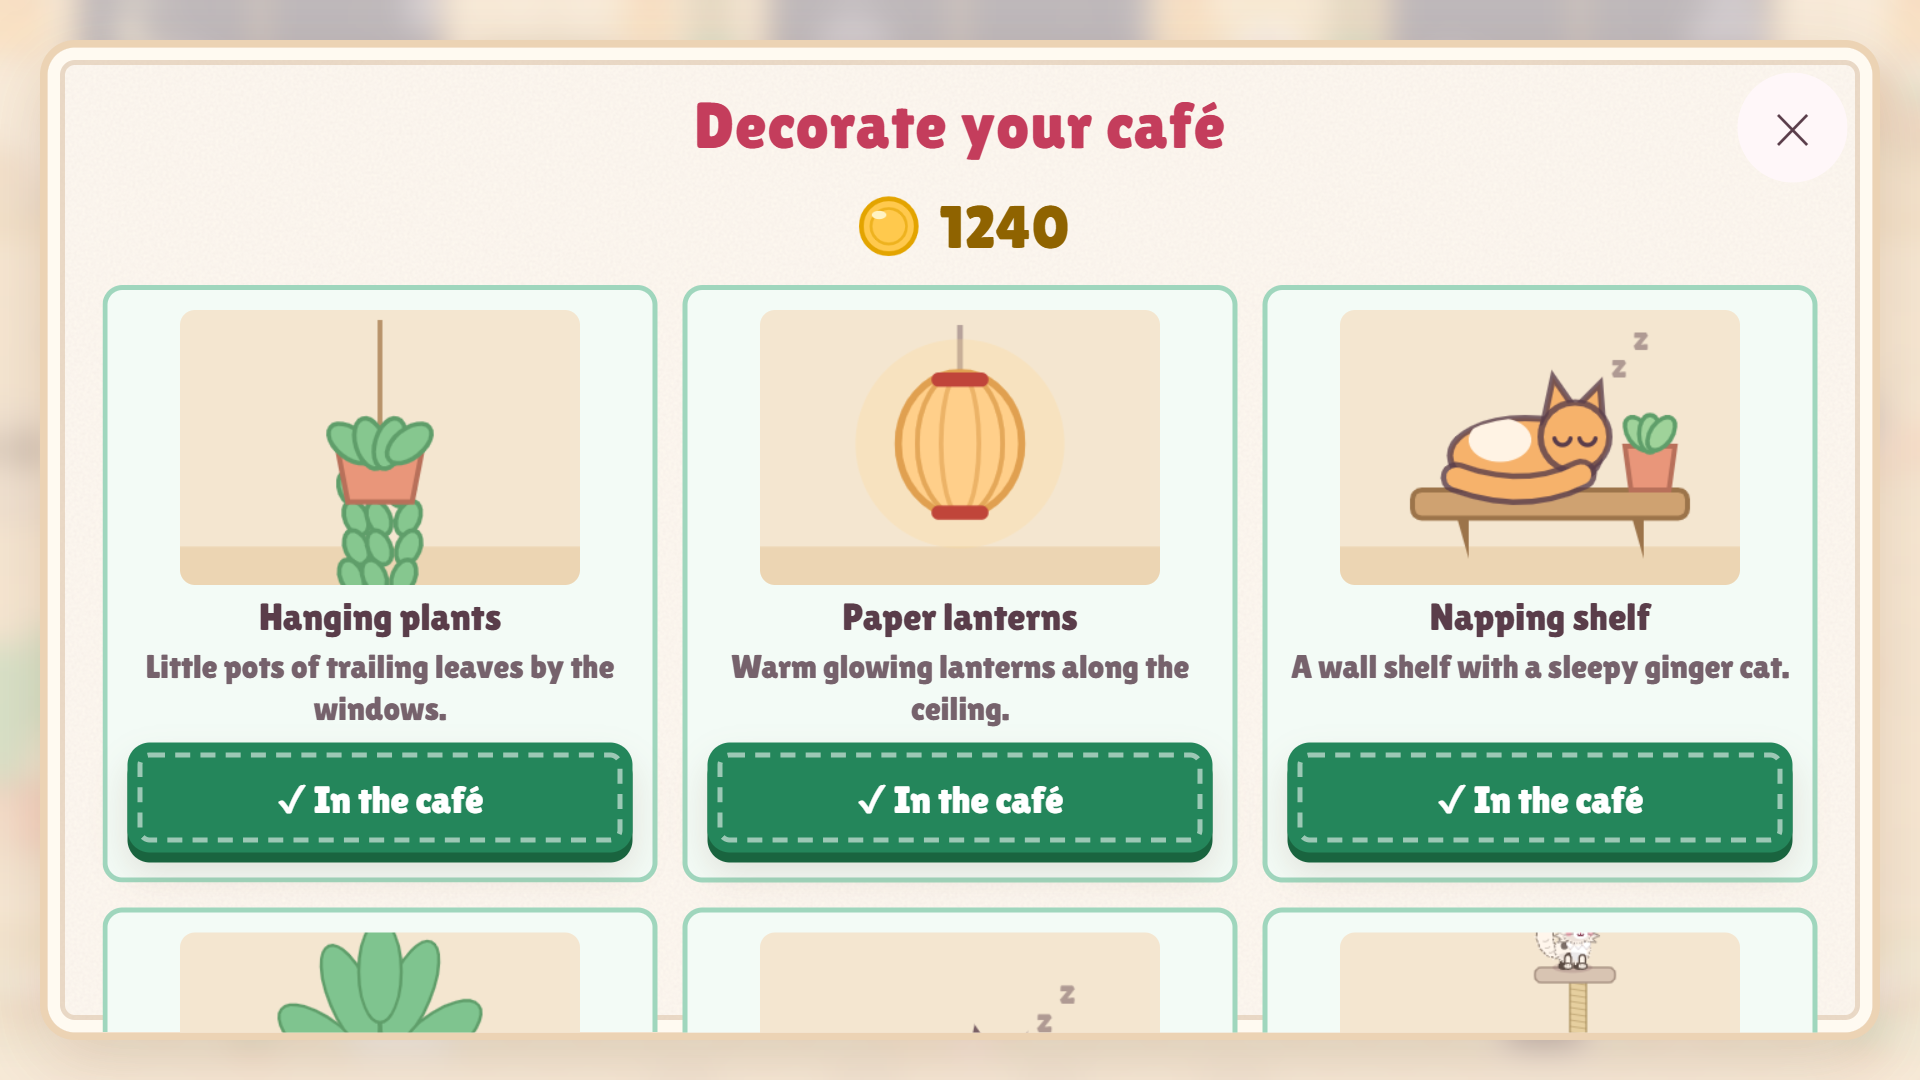
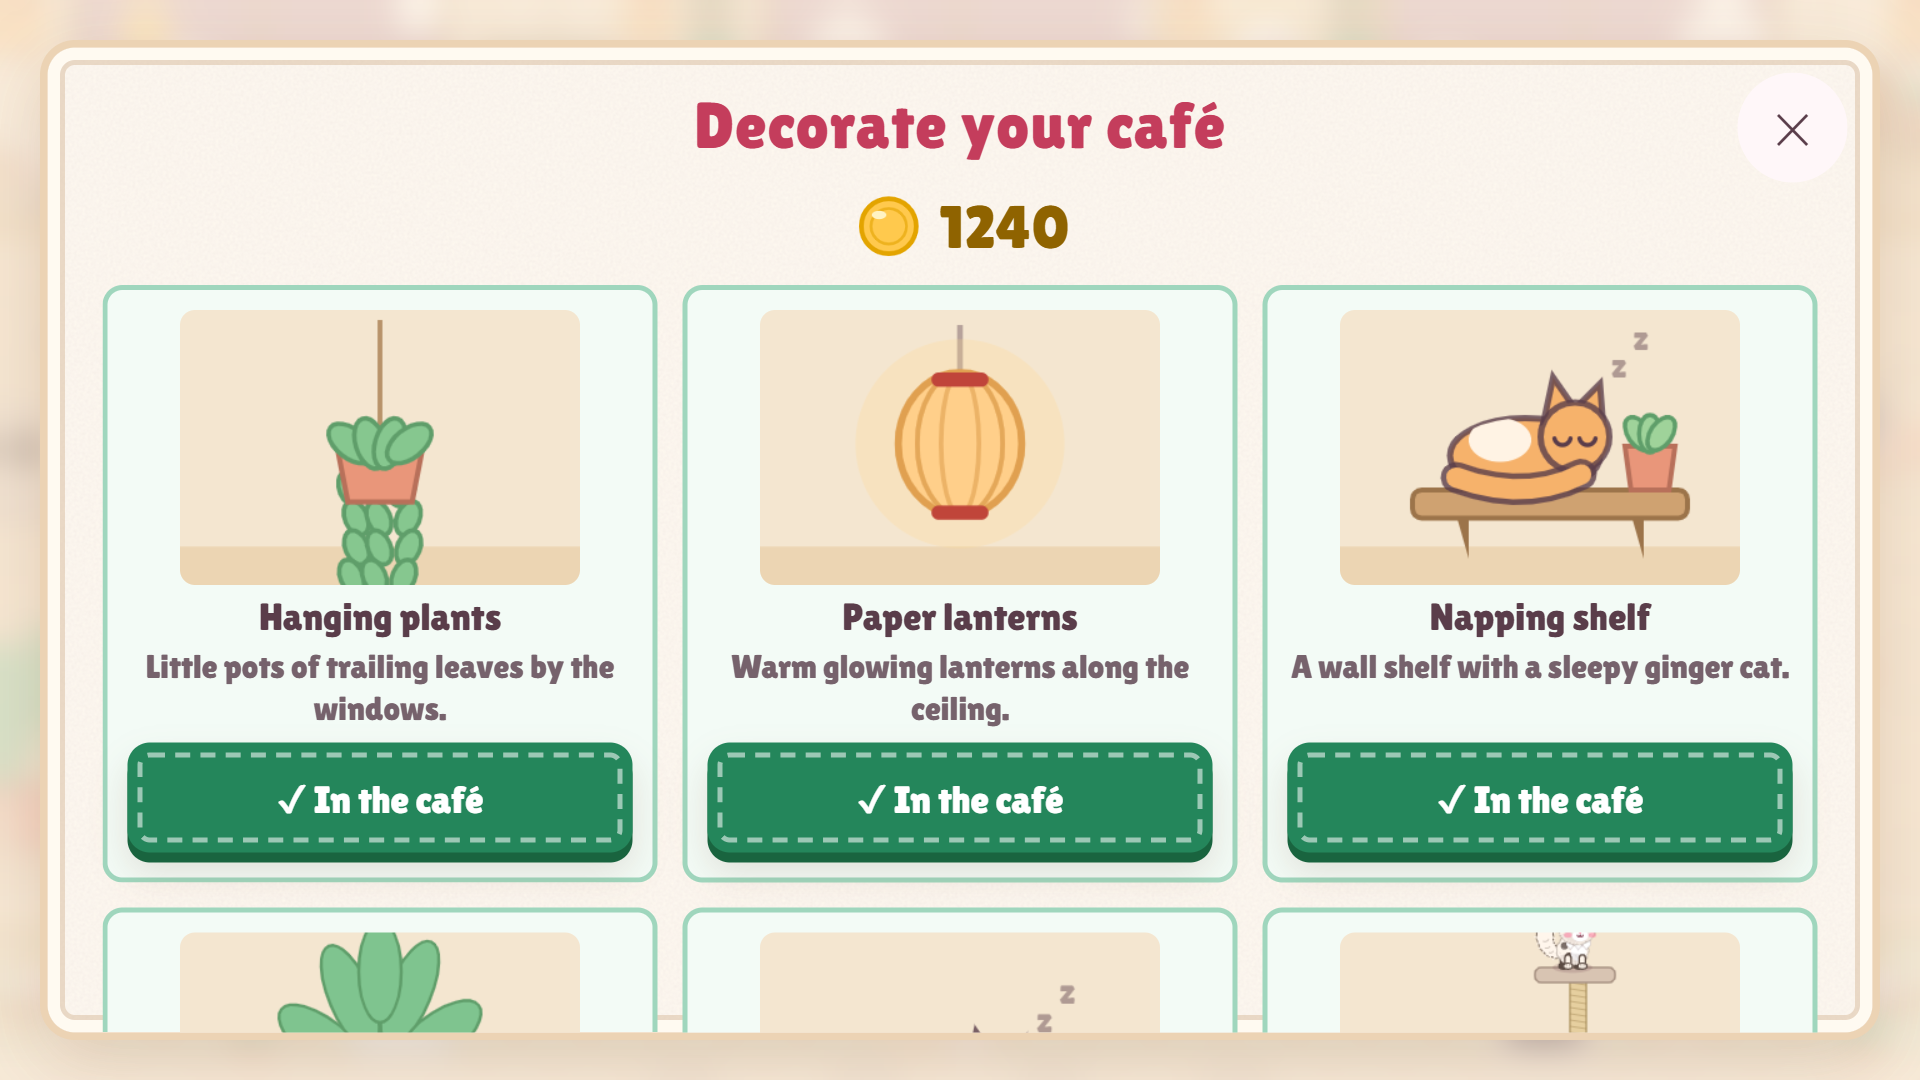
Felted chibi cats: big round heads, rounded ears, glossy eyes with highlights, rosy cheeks, soft felt halo and fibre flecks; apron pocket with paw print, white collar; new Cocoa apron

diff --git a/js/art.js b/js/art.js
@@ -150,8 +150,28 @@ function plush(ctx, cx, cy, rx, ry) {
 /** A soft, fuzzy fur outline: a faint edge line with fur strands brushed across it (fur colour, plus a few darker ones). */
 function softFurEdge(ctx, look, ol, cx, cy, rx, ry, tufts, amp, seed) {
   furPath(ctx, cx, cy, rx, ry, tufts, amp, seed);
-  ctx.save(); ctx.globalAlpha = 0.5; ctx.strokeStyle = ol; ctx.lineWidth = 1.8; ctx.stroke(); ctx.restore();
-  fuzz(ctx, cx, cy, rx, ry, look.fur, Math.round(tufts * 2.6), 5, seed);
+  ctx.save(); ctx.globalAlpha = 0.3; ctx.strokeStyle = ol; ctx.lineWidth = 1.8; ctx.stroke(); ctx.restore(); // felt: barely-there edge
+  ctx.save(); ctx.globalAlpha = 0.75; fuzz(ctx, cx, cy, rx, ry, look.fur, Math.round(tufts * 3), 2.8, seed, 1.3); ctx.restore(); // a soft felt halo, not bristles
+}
+
+/** A rounded triangle (soft felt ears): corners at a and c, a rounder tip at b. */
+function roundTri(ctx, a, b, c, tip = 4, base = 2.5) {
+  ctx.beginPath(); ctx.moveTo((a[0] + c[0]) / 2, (a[1] + c[1]) / 2);
+  ctx.arcTo(a[0], a[1], b[0], b[1], base); ctx.arcTo(b[0], b[1], c[0], c[1], tip); ctx.arcTo(c[0], c[1], a[0], a[1], base);
+  ctx.closePath();
+}
+
+/** Needle-felt look inside the current clip: a scatter of tiny light and dark fibre flecks (deterministic, two strokes). */
+function felt(ctx, cx, cy, rx, ry, seed) {
+  for (const [color, k] of [['rgba(255,255,255,0.28)', 0], ['rgba(70,35,50,0.09)', 1]]) {
+    ctx.beginPath();
+    for (let i = 0; i < 16; i++) {
+      const a = seed * 3 + i * 2.39996 + k, r = Math.sqrt((i + 0.5) / 16) * 0.92;
+      const x = cx + Math.cos(a) * rx * r, y = cy + Math.sin(a) * ry * r, d = a * 1.7;
+      ctx.moveTo(x, y); ctx.lineTo(x + Math.cos(d) * 2.4, y + Math.sin(d) * 2.4);
+    }
+    ctx.strokeStyle = color; ctx.lineWidth = 1.1; ctx.stroke();
+  }
 }
 
 /** A fluffy plume tail along a curve (a, control c, tip b): overlapping puffs that get fuller toward the tip. */
@@ -170,14 +190,8 @@ function fluffyTail(ctx, look, ol, a, c, b) {
   ctx.globalAlpha = 1;
 }
 
-/** A little tuft of hair standing up on top of the head (hats are drawn over it). */
-function headTuft(ctx, look, ol, hx, hy) {
-  ctx.beginPath(); ctx.moveTo(hx - 3, hy - 15);
-  ctx.quadraticCurveTo(hx - 3, hy - 22, hx + 1, hy - 25); ctx.quadraticCurveTo(hx + 1, hy - 20, hx + 4, hy - 19);
-  ctx.quadraticCurveTo(hx + 6, hy - 23, hx + 9, hy - 22); ctx.quadraticCurveTo(hx + 7, hy - 18, hx + 8, hy - 15);
-  ctx.fillStyle = look.fur; ctx.fill();
-  ctx.save(); ctx.globalAlpha = 0.55; ctx.strokeStyle = ol; ctx.lineWidth = 1.5; ctx.stroke(); ctx.restore();
-}
+/** The round chibi head (felt style): a bit wider than tall. */
+const HEAD_RX = 20.5, HEAD_RY = 18.5;
 
 /** Cats on the café floor are drawn this much bigger than in menus and portraits (set around the café render). */
 let catScale = 1;
@@ -216,12 +230,15 @@ export function drawCat(ctx, x, y, look, o = {}) {
   // far legs, body, near legs
   leg(ctx, -10 - swing, look.dark, ol, look);
   leg(ctx, 7 + swing, look.dark, ol, look);
-  furPath(ctx, 0, -20, 19, 15, 11, 0.09, 0.3); ctx.fillStyle = look.fur; ctx.fill();
-  ctx.save(); ctx.clip(); bodyPattern(ctx, look); plush(ctx, 0, -20, 19, 15); ctx.restore();
-  softFurEdge(ctx, look, ol, 0, -20, 19, 15, 11, 0.09, 0.3);
-  if (look.accessory === 'chef' || look.accessory === 'waiter') { // apron
-    rrect(ctx, -1, -31, 17, 22, 5); fillStroke(ctx, look.acc, '#e56b8c', 1.6);
-    rrect(ctx, 3, -20, 9, 6, 2); fillStroke(ctx, '#ffd0de', null);
+  furPath(ctx, 0, -19, 17, 16, 11, 0.09, 0.3); ctx.fillStyle = look.fur; ctx.fill();
+  ctx.save(); ctx.clip(); bodyPattern(ctx, look); plush(ctx, 0, -19, 17, 16); felt(ctx, 0, -19, 17, 16, look.seed); ctx.restore();
+  softFurEdge(ctx, look, ol, 0, -19, 17, 16, 11, 0.09, 0.3);
+  if (look.accessory === 'chef' || look.accessory === 'waiter') { // felt apron with a pocket and a little paw print
+    rrect(ctx, -5, -32, 21, 25, 6); fillStroke(ctx, look.acc, 'rgba(60,30,45,0.3)', 1.4);
+    rrect(ctx, 0, -21, 11, 7, 2.5); fillStroke(ctx, 'rgba(255,255,255,0.16)', 'rgba(60,30,45,0.25)', 1);
+    ctx.fillStyle = '#ffd68a';
+    circle(ctx, 9.5, -11, 1.9); ctx.fill();
+    for (const [dx, dy] of [[-2.3, -2.4], [0, -3.3], [2.3, -2.4]]) { circle(ctx, 9.5 + dx, -11 + dy, 0.85); ctx.fill(); }
   }
   if (look.accessory === 'ghost') { // tactical vest with pouches
     rrect(ctx, -3, -32, 20, 24, 5); fillStroke(ctx, look.acc, '#1f211c', 1.6);
@@ -241,45 +258,37 @@ export function drawCat(ctx, x, y, look, o = {}) {
   // head
   const hx = 5, hy = -44 - yawn * 3 + (eat ? 3 + Math.abs(Math.sin(t * 14)) * 3 : talk ? Math.abs(Math.sin(t * 7)) * 2 : 0);
   const droop = sad ? 6 : 0;
-  const ears = [
-    [[hx - 15, hy - 6], [hx - 13 - droop, hy - 26 + droop * 1.5], [hx - 2, hy - 15]],
-    [[hx + 5, hy - 15], [hx + 16 + droop, hy - 26 + droop * 1.5], [hx + 18, hy - 5]],
+  const ears = [ // soft rounded felt ears with pink insides
+    [[hx - 18, hy - 4], [hx - 15 - droop, hy - 28 + droop * 1.5], [hx - 3, hy - 17]],
+    [[hx + 7, hy - 17], [hx + 19 + droop, hy - 28 + droop * 1.5], [hx + 22, hy - 3]],
   ];
   for (const [i, [a, b, c]] of ears.entries()) {
-    tri(ctx, a, b, c); fillStroke(ctx, i === 1 && look.ear ? look.ear : look.fur, ol, 2.2);
+    roundTri(ctx, a, b, c); ctx.fillStyle = i === 1 && look.ear ? look.ear : look.fur; ctx.fill();
+    ctx.save(); ctx.globalAlpha = 0.3; ctx.strokeStyle = ol; ctx.lineWidth = 1.8; ctx.stroke(); ctx.restore();
     const cx = (a[0] + b[0] + c[0]) / 3, cy = (a[1] + b[1] + c[1]) / 3;
-    const k = p => [cx + (p[0] - cx) * 0.5, cy + (p[1] - cy) * 0.5];
-    tri(ctx, k(a), k(b), k(c)); fillStroke(ctx, '#ffb3c6', null);
-    ctx.strokeStyle = look.light; ctx.lineWidth = 1.5; // wisps of fluff inside the ear
-    const base = [(a[0] + c[0]) / 2, (a[1] + c[1]) / 2];
-    for (const f of [0.35, 0.55]) { ctx.beginPath(); ctx.moveTo(...base); ctx.quadraticCurveTo(base[0] + (b[0] - base[0]) * f * 0.5 + 2, base[1] + (b[1] - base[1]) * f * 0.5, base[0] + (b[0] - base[0]) * f, base[1] + (b[1] - base[1]) * f); ctx.stroke(); }
+    const k = p => [cx + (p[0] - cx) * 0.55, cy + (p[1] - cy) * 0.55 + 1];
+    roundTri(ctx, k(a), k(b), k(c), 3, 1.5); ctx.fillStyle = '#ffb3c6'; ctx.fill();
   }
-  for (const d of [-1, 1]) { // big fluffy cheek tufts (the head covers their inner half)
-    ctx.beginPath(); ctx.moveTo(hx + d * 12, hy - 1); ctx.lineTo(hx + d * 25, hy + 1); ctx.lineTo(hx + d * 18, hy + 5);
-    ctx.lineTo(hx + d * 25, hy + 9); ctx.lineTo(hx + d * 17, hy + 12); ctx.lineTo(hx + d * 21, hy + 16); ctx.lineTo(hx + d * 9, hy + 15); ctx.closePath();
-    ctx.fillStyle = look.fur; ctx.fill();
-    ctx.save(); ctx.globalAlpha = 0.5; ctx.strokeStyle = ol; ctx.lineWidth = 1.6; ctx.stroke(); ctx.restore();
-  }
-  furPath(ctx, hx, hy, 18, 17, 13, 0.05, 1.1); ctx.fillStyle = look.fur; ctx.fill();
-  ctx.save(); ctx.clip(); headPattern(ctx, look, hx, hy); plush(ctx, hx, hy, 18, 17); ctx.restore();
-  softFurEdge(ctx, look, ol, hx, hy, 18, 17, 13, 0.05, 1.1);
-  headTuft(ctx, look, ol, hx, hy);
-  ellipse(ctx, hx + 4, hy + 7, 8, 5.5); fillStroke(ctx, look.light, null);
+  furPath(ctx, hx, hy, HEAD_RX, HEAD_RY, 14, 0.04, 1.1); ctx.fillStyle = look.fur; ctx.fill();
+  ctx.save(); ctx.clip(); headPattern(ctx, look, hx, hy); plush(ctx, hx, hy, HEAD_RX, HEAD_RY); felt(ctx, hx, hy, HEAD_RX, HEAD_RY, look.seed + 2); ctx.restore();
+  softFurEdge(ctx, look, ol, hx, hy, HEAD_RX, HEAD_RY, 14, 0.04, 1.1);
+  ellipse(ctx, hx + 3.5, hy + 8.5, 9, 6.5); fillStroke(ctx, look.light, null); // soft muzzle
 
   // eyes
   const blink = (t + look.seed) % 3.6 < 0.13;
   ctx.strokeStyle = '#2b2230'; ctx.lineWidth = 2.2;
-  for (const ex of [hx - 3, hx + 10]) {
-    const ey = hy - 1;
+  for (const ex of [hx - 4, hx + 11]) { // big, wide-set chibi eyes
+    const ey = hy + 1;
     if (yawn > 0.3) { // squeezed shut: > <
       const d = ex < hx ? 1 : -1;
       ctx.beginPath(); ctx.moveTo(ex - d * 3, ey - 2.5); ctx.lineTo(ex + d * 2, ey); ctx.lineTo(ex - d * 3, ey + 2.5); ctx.stroke();
     } else if (happy) { ctx.beginPath(); ctx.arc(ex, ey + 2, 3.4, Math.PI * 1.15, Math.PI * 1.85); ctx.stroke(); }
     else if (blink) { ctx.beginPath(); ctx.moveTo(ex - 3, ey); ctx.lineTo(ex + 3, ey); ctx.stroke(); }
     else {
-      ellipse(ctx, ex, ey, 3.6, 4.6); fillStroke(ctx, look.eye, null);
-      ellipse(ctx, ex + 0.4, ey + 0.6, 2.3, 3.3); fillStroke(ctx, '#2b2230', null);
-      circle(ctx, ex - 1, ey - 1.6, 1.3); fillStroke(ctx, '#fff', null);
+      ellipse(ctx, ex, ey, 4.4, 5.2); fillStroke(ctx, '#2a1c22', null);                  // glossy dark eye
+      ellipse(ctx, ex, ey + 1.7, 3.1, 2.6); ctx.save(); ctx.globalAlpha = 0.55; ctx.fillStyle = look.eye; ctx.fill(); ctx.restore(); // its colour, as a soft glint
+      circle(ctx, ex - 1.5, ey - 2, 1.8); fillStroke(ctx, '#fff', null);                   // big highlight
+      circle(ctx, ex + 1.7, ey + 1.9, 0.8); fillStroke(ctx, '#fff', null);                 // little highlight
     }
   }
   if (sad) {
@@ -291,7 +300,7 @@ export function drawCat(ctx, x, y, look, o = {}) {
   }
 
   // nose, mouth, cheeks, whiskers
-  tri(ctx, [hx + 1.5, hy + 3], [hx + 6.5, hy + 3], [hx + 4, hy + 6]); fillStroke(ctx, '#ff7a9a', null);
+  tri(ctx, [hx + 1.8, hy + 5], [hx + 5.2, hy + 5], [hx + 3.5, hy + 7]); fillStroke(ctx, '#ff8fab', null); // tiny pink nose
   ctx.strokeStyle = '#7a2e45'; ctx.lineWidth = 1.4;
   if (yawn > 0.05) { // big yawn: open mouth, tongue, two tiny fangs
     const my = hy + 10 + yawn, rx = 2.5 + yawn * 3.5, ry = 2 + yawn * 4.5;
@@ -301,19 +310,12 @@ export function drawCat(ctx, x, y, look, o = {}) {
   } else if ((eat || talk) && Math.sin(t * (talk ? 18 : 14)) > 0) { ellipse(ctx, hx + 4, hy + 9.5, 2.6, 2.2); fillStroke(ctx, '#7a2e45', null); }
   else if (sad) { ctx.beginPath(); ctx.arc(hx + 4, hy + 11, 2.6, Math.PI * 1.15, Math.PI * 1.85); ctx.stroke(); }
   else {
-    ctx.beginPath(); ctx.arc(hx + 2.5, hy + 7, 1.6, 0, Math.PI); ctx.stroke();
-    ctx.beginPath(); ctx.arc(hx + 5.5, hy + 7, 1.6, 0, Math.PI); ctx.stroke();
+    ctx.beginPath(); ctx.arc(hx + 2, hy + 8.2, 1.5, 0, Math.PI); ctx.stroke();
+    ctx.beginPath(); ctx.arc(hx + 5, hy + 8.2, 1.5, 0, Math.PI); ctx.stroke();
   }
-  ctx.fillStyle = 'rgba(255,120,150,0.4)';
-  circle(ctx, hx - 9, hy + 6, 3.2); ctx.fill();
-  circle(ctx, hx + 15, hy + 6, 3); ctx.fill();
-  ctx.strokeStyle = 'rgba(90,61,74,0.45)'; ctx.lineWidth = 1;
-  ctx.beginPath();
-  ctx.moveTo(hx + 12, hy + 5); ctx.lineTo(hx + 23, hy + 3);
-  ctx.moveTo(hx + 12, hy + 7); ctx.lineTo(hx + 23, hy + 8);
-  ctx.moveTo(hx - 4, hy + 5); ctx.lineTo(hx - 15, hy + 3);
-  ctx.moveTo(hx - 4, hy + 7); ctx.lineTo(hx - 15, hy + 8);
-  ctx.stroke();
+  ctx.fillStyle = 'rgba(255,128,160,0.55)'; // rosy felt cheeks
+  ellipse(ctx, hx - 10, hy + 8, 4.4, 2.8); ctx.fill();
+  ellipse(ctx, hx + 17, hy + 8, 4.2, 2.7); ctx.fill();
 
   accessory(ctx, look, hx, hy, blink);
   ctx.restore();
@@ -327,7 +329,7 @@ function drawCatBack(ctx, look, { t, state, sad }) {
 
   // sitting body with the pattern across its back, hind paws peeking out
   furPath(ctx, 0, -18, 18, 17, 12, 0.08, 0.7); ctx.fillStyle = look.fur; ctx.fill();
-  ctx.save(); ctx.clip(); backPattern(ctx, look); plush(ctx, 0, -18, 18, 17); ctx.restore();
+  ctx.save(); ctx.clip(); backPattern(ctx, look); plush(ctx, 0, -18, 18, 17); felt(ctx, 0, -18, 18, 17, look.seed); ctx.restore();
   softFurEdge(ctx, look, ol, 0, -18, 18, 17, 12, 0.08, 0.7);
   for (const px of [-10, 10]) { ellipse(ctx, px, -2, 6.5, 3.5); fillStroke(ctx, white ? '#fff' : look.fur, ol, 1.6); }
 
@@ -340,19 +342,15 @@ function drawCatBack(ctx, look, { t, state, sad }) {
   const hy = -44 + (eat ? 2 + Math.abs(Math.sin(t * 10)) * 3 : 0);
   const droop = sad ? 6 : 0;
   for (const [i, [a, b, c]] of [
-    [[hx - 16, hy - 5], [hx - 12 - droop, hy - 25 + droop * 1.5], [hx - 2, hy - 14]],
-    [[hx + 2, hy - 14], [hx + 12 + droop, hy - 25 + droop * 1.5], [hx + 16, hy - 5]],
-  ].entries()) { tri(ctx, a, b, c); fillStroke(ctx, i === 1 && look.ear ? look.ear : look.fur, ol, 2.2); }
-  furPath(ctx, hx, hy, 18, 17, 13, 0.05, 1.1); ctx.fillStyle = look.fur; ctx.fill();
-  ctx.save(); ctx.clip(); backHeadPattern(ctx, look, hx, hy); plush(ctx, hx, hy, 18, 17); ctx.restore();
-  softFurEdge(ctx, look, ol, hx, hy, 18, 17, 13, 0.05, 1.1);
-  headTuft(ctx, look, ol, hx - 3, hy);
-  // whisker tips poking out either side of the head
-  ctx.strokeStyle = 'rgba(90,61,74,0.45)'; ctx.lineWidth = 1;
-  ctx.beginPath();
-  ctx.moveTo(hx - 17, hy + 6); ctx.lineTo(hx - 23, hy + 4);
-  ctx.moveTo(hx + 17, hy + 6); ctx.lineTo(hx + 23, hy + 4);
-  ctx.stroke();
+    [[hx - 19, hy - 4], [hx - 14 - droop, hy - 28 + droop * 1.5], [hx - 3, hy - 17]],
+    [[hx + 3, hy - 17], [hx + 14 + droop, hy - 28 + droop * 1.5], [hx + 19, hy - 4]],
+  ].entries()) {
+    roundTri(ctx, a, b, c); ctx.fillStyle = i === 1 && look.ear ? look.ear : look.fur; ctx.fill();
+    ctx.save(); ctx.globalAlpha = 0.3; ctx.strokeStyle = ol; ctx.lineWidth = 1.8; ctx.stroke(); ctx.restore();
+  }
+  furPath(ctx, hx, hy, HEAD_RX, HEAD_RY, 14, 0.04, 1.1); ctx.fillStyle = look.fur; ctx.fill();
+  ctx.save(); ctx.clip(); backHeadPattern(ctx, look, hx, hy); plush(ctx, hx, hy, HEAD_RX, HEAD_RY); felt(ctx, hx, hy, HEAD_RX, HEAD_RY, look.seed + 2); ctx.restore();
+  softFurEdge(ctx, look, ol, hx, hy, HEAD_RX, HEAD_RY, 14, 0.04, 1.1);
   accessoryBack(ctx, look, hx, hy);
 }
 
@@ -415,7 +413,7 @@ export function drawDish(ctx, x, y, type, left, alpha = 1) {
 /** Skull-print balaclava + headset (Ghost easter-egg cat). Drawn over the face. */
 function ghostMask(ctx, hx, hy, blink = false) {
   // balaclava: dark hood around the face, pale skull print on the front
-  ellipse(ctx, hx, hy, 18, 17); ctx.strokeStyle = '#262624'; ctx.lineWidth = 5; ctx.stroke();
+  ellipse(ctx, hx, hy, HEAD_RX, HEAD_RY); ctx.strokeStyle = '#262624'; ctx.lineWidth = 5; ctx.stroke();
   ellipse(ctx, hx + 4, hy + 2, 12.5, 13); fillStroke(ctx, '#d8d4ca', '#9d998f', 1.2);
   ctx.strokeStyle = 'rgba(60,58,54,0.35)'; ctx.lineWidth = 1; // worn fabric streaks
   for (const dx of [-4, 2, 9]) { ctx.beginPath(); ctx.moveTo(hx + dx, hy - 10); ctx.lineTo(hx + dx + 1, hy - 3); ctx.stroke(); }
@@ -511,9 +509,9 @@ export function accessory(ctx, look, hx, hy, blink = false) {
       break;
     case 'glasses':
       ctx.strokeStyle = '#3d3540'; ctx.lineWidth = 1.8;
-      circle(ctx, hx - 3, hy - 1, 5.6); ctx.stroke();
-      circle(ctx, hx + 10, hy - 1, 5.6); ctx.stroke();
-      ctx.beginPath(); ctx.moveTo(hx + 2.6, hy - 1); ctx.lineTo(hx + 4.4, hy - 1); ctx.stroke();
+      circle(ctx, hx - 4, hy + 1, 6.4); ctx.stroke();
+      circle(ctx, hx + 11, hy + 1, 6.4); ctx.stroke();
+      ctx.beginPath(); ctx.moveTo(hx + 2.4, hy + 1); ctx.lineTo(hx + 4.6, hy + 1); ctx.stroke();
       break;
     case 'flower':
       for (let i = 0; i < 5; i++) {
@@ -560,6 +558,7 @@ export function accessory(ctx, look, hx, hy, blink = false) {
       break;
     case 'waiter': { // bow tie, plus any wardrobe hat
       const bx = hx + 3, by = hy + 19;
+      for (const d of [-1, 1]) { tri(ctx, [bx, by - 2], [bx + d * 9, by - 3.5], [bx + d * 5, by + 4]); fillStroke(ctx, '#fff', 'rgba(60,30,45,0.25)', 1); } // white collar
       for (const d of [-1, 1]) { tri(ctx, [bx, by], [bx + d * 7.5, by - 4.5], [bx + d * 7.5, by + 4.5]); fillStroke(ctx, '#e8504f', ol, 1.2); }
       circle(ctx, bx, by, 2.2); fillStroke(ctx, '#c43d5c', ol, 1);
       if (look.hat === 'chef') accessory(ctx, { ...look, accessory: 'chef', hat: null }, hx, hy, blink);

diff --git a/js/icons.js b/js/icons.js
@@ -369,7 +369,7 @@ export const ICONS = {
     circle(ctx, 0, 11, 2.4); ctx.fillStyle = '#b7a4ad'; ctx.fill();
   },
 };
-for (const [id, color] of [['apronPink', '#ff8fab'], ['apronMint', '#6fcf9f'], ['apronSky', '#7fb3ff'], ['apronSunny', '#ffc94d'], ['apronGrape', '#a07be0'], ['apronCherry', '#ff5d73']]) ICONS[id] = apron(color);
+for (const [id, color] of [['apronPink', '#ff8fab'], ['apronMint', '#6fcf9f'], ['apronSky', '#7fb3ff'], ['apronSunny', '#ffc94d'], ['apronGrape', '#a07be0'], ['apronCherry', '#ff5d73'], ['apronCocoa', '#3b2f36']]) ICONS[id] = apron(color);
 
 // Emoji (as written in copy) -> drawn icon. Variation selectors are ignored.
 const EMOJI = {
@@ -379,7 +379,7 @@ const EMOJI = {
   '🐶': 'puppy', '💰': 'bag', '💖': 'heart', '✨': 'sparkles', '🔗': 'link', '❓': 'help', '⚙': 'gear', '📲': 'install', '👆': 'tap',
   '🍣': 'sushi', '🧁': 'cupcake', '👒': 'sunhat', '🧹': 'broom', '🧙': 'gnome', '🐟': 'goldfish', '🦜': 'parrot', '🧑🍳': 'chefhat',
   '🧶': 'beanie', '🥳': 'partyhat', '🎨': 'beret', '🎩': 'tophat', '🩷': 'apronPink', '🟢': 'apronMint', '🔵': 'apronSky', '🟡': 'apronSunny',
-  '🟣': 'apronGrape', '🔴': 'apronCherry', '⚡': 'bolt', '⏱': 'timer', '🍀': 'clover', '🪑': 'table', '❔': 'question', '📋': 'clipboard', '📥': 'restore', '📖': 'book', '📷': 'camera', '⌨': 'keyboard', '🎯': 'target', '🤍': 'heartEmpty',
+  '🟣': 'apronGrape', '🔴': 'apronCherry', '🟤': 'apronCocoa', '⚡': 'bolt', '⏱': 'timer', '🍀': 'clover', '🪑': 'table', '❔': 'question', '📋': 'clipboard', '📥': 'restore', '📖': 'book', '📷': 'camera', '⌨': 'keyboard', '🎯': 'target', '🤍': 'heartEmpty',
 };
 const EMOJI_RE = /\p{Extended_Pictographic}?(?:\p{Extended_Pictographic}?)*/gu;
 export const iconFor = emoji => EMOJI[emoji.replace(//g, '')];

diff --git a/js/config.js b/js/config.js
@@ -283,6 +283,7 @@ export const OUTFITS = {
     { id: 'sunny', name: 'Sunny', icon: '🟡', cost: 40, color: '#ffc94d' },
     { id: 'grape', name: 'Grape', icon: '🟣', cost: 60, color: '#a07be0' },
     { id: 'cherry', name: 'Cherry', icon: '🔴', cost: 60, color: '#ff5d73' },
+    { id: 'cocoa', name: 'Cocoa', icon: '🟤', cost: 60, color: '#3b2f36' },
   ],
 };
 

diff --git a/service-worker.js b/service-worker.js
@@ -1,6 +1,6 @@
 // Offline support: precache the app shell, then network-first with cache fallback.
 // BUMP CACHE when you deploy so players get the new files.
-const CACHE = 'hungrykatz-v95';
+const CACHE = 'hungrykatz-v96';
 const ASSETS = [
   './',
   './index.html',

diff --git a/DESIGN.md b/DESIGN.md
@@ -160,7 +160,7 @@ components:
 
 HungryKatz looks like a café sewn from felt and paper by hand. Every surface has a material: cream paper panels with a faint grain, felt buttons with a stitched seam just inside the edge and a darker lip underneath, a paw-print wallpaper around the frame. The café itself is the stage. The home screen is the live café seen through a cream frame, and menus sit over it as paper cards, never as opaque pages.
 
-Density is low and the type is big because the players are children holding a phone sideways with both thumbs. One typeface does all the talking, warm and chunky, in strawberry pink, marmalade orange and cocoa brown on oat and cream. The cats are drawn fluffy (cheek tufts, chest ruff, a puffed tail tip), and the décor (cat trees, cushion beds, lanterns, plants) keeps the room cosy rather than busy.
+Density is low and the type is big because the players are children holding a phone sideways with both thumbs. One typeface does all the talking, warm and chunky, in strawberry pink, marmalade orange and cocoa brown on oat and cream. The cats look needle-felted and chibi: a big round head, soft rounded ears with pink insides, big glossy dark eyes with two highlights (each cat's eye colour as a soft glint), rosy blush ovals, a tiny pink nose and a "w" mouth, barely-there outlines with a soft fuzz halo and faint fibre flecks, and a big plume tail. Waiters wear a felt apron with a pocket and a little paw print, a white collar and a red bow tie, and the décor (cat trees, cushion beds, lanterns, plants) keeps the room cosy rather than busy.
 
 Things should feel soft and squishy: a tap presses a button down onto its lip, panels pop gently into place, and nothing is sharp, glossy or glassy.
 
